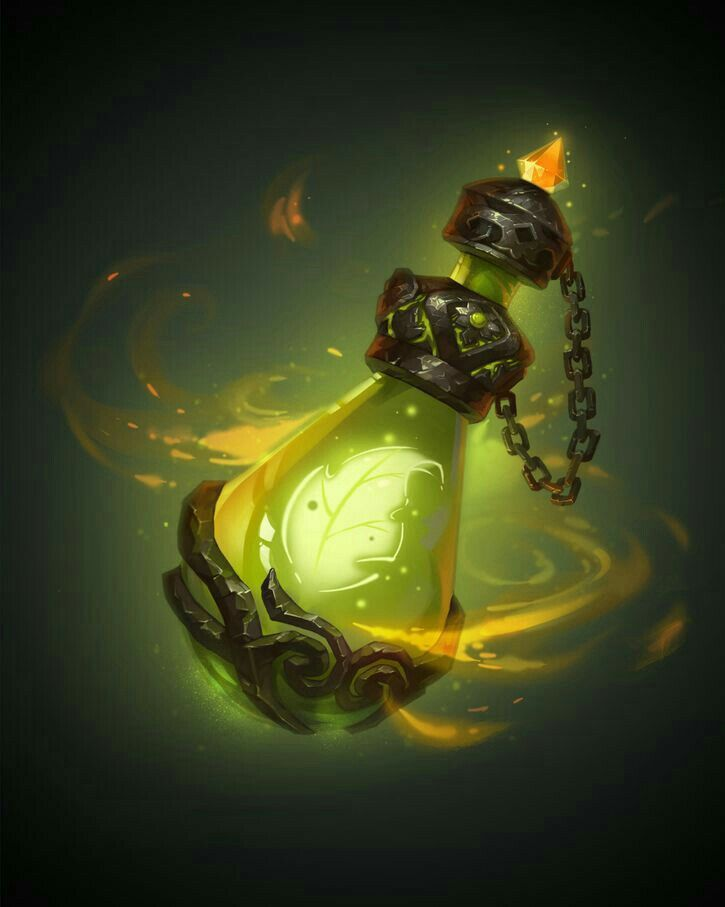
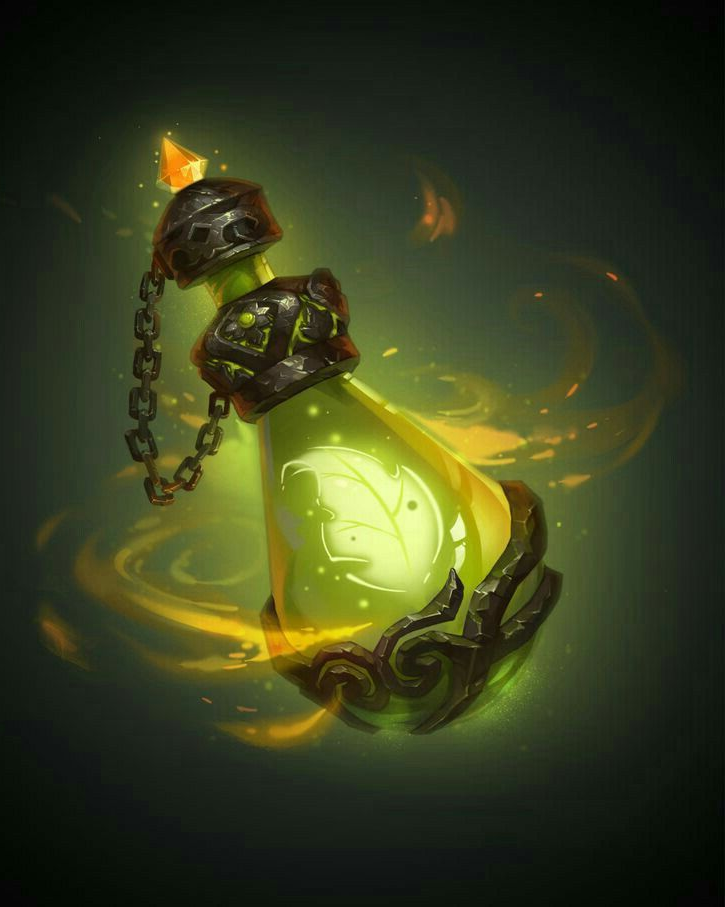
update cards; costs under name; flip some images

diff --git a/docs/common.css b/docs/common.css
@@ -51,8 +51,8 @@ body {
 
 .card div.name {
 	position: absolute;
+	right: 2.5mm;
 	top: 2mm;
-	right: 3mm;
 	padding: 1mm 4mm;
 	border-radius: 1mm;
 	background-color: var(--back-color);
@@ -87,9 +87,9 @@ body {
 
 .card div.costs {
 	position: absolute;
-	left: 0.8mm;
-	top: 1.5mm;
-	padding: 0.4mm 1.2mm;
+	right: 2.5mm;
+	top: 8.3mm;
+	padding: 0.2mm 1.2mm;
 	border-radius: 1mm;
 	background-color: var(--back-color);
 	backdrop-filter: var(--back-filter);
@@ -102,7 +102,7 @@ body {
 .card div.stats {
 	position: absolute;
 	left: 2.5mm;
-	bottom: 30mm;
+	bottom: 31.2mm;
 	padding: 0.2mm 1.2mm;
 	border-radius: 1mm;
 	background-color: var(--back-color);

diff --git a/docs/common.js b/docs/common.js
@@ -35,12 +35,12 @@ function makeCosts(d) {
 function makeStats(d) {
 	let arr = [];
 	if (d.Military.length > 0)
-		arr.push(d.Military + " \\M");
+		arr.push(d.Military + "&nbsp;\\M");
 	if (d.Culture.length > 0)
-		arr.push(d.Culture + " \\C");
+		arr.push(d.Culture + "&nbsp;\\C");
 	if (d.Faith.length > 0)
-		arr.push(d.Faith + " \\F");
-	return replaceImages("&nbsp;" + arr.join(" &nbsp; ") + "&nbsp;");
+		arr.push(d.Faith + "&nbsp;\\F");
+	return replaceImages(arr.join("&nbsp; "));
 }
 
 function makeDescription(d) {
